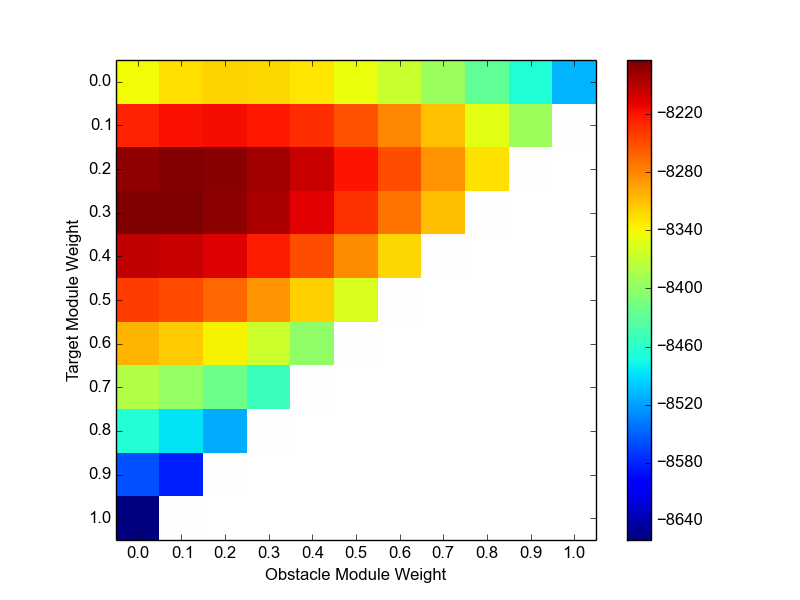
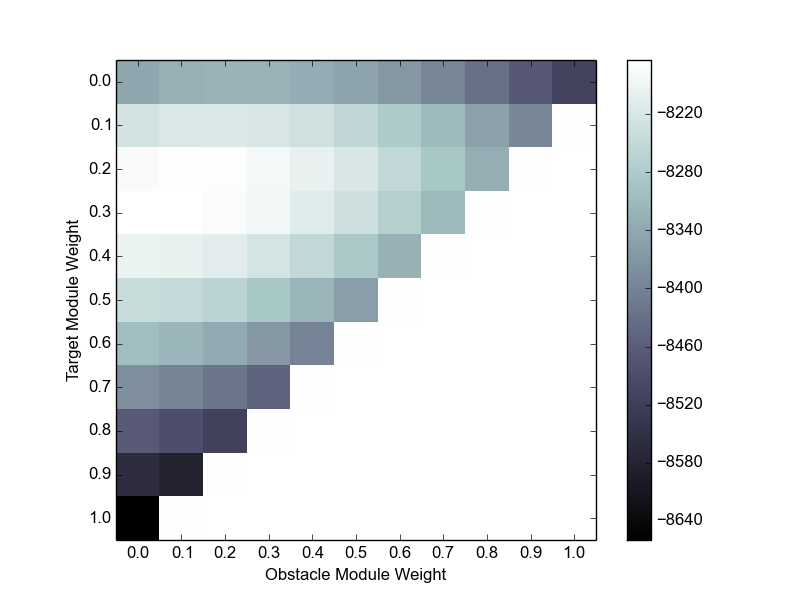
changed color for hm

Changed region(s): [[0.125, 0.09, 0.75, 0.9], [0.7812, 0.09, 0.8125, 0.9]]

diff --git a/inverseModularRL.py b/inverseModularRL.py
@@ -232,13 +232,12 @@ def debugWeight(sln, filename):
   mask = np.fliplr(mask)
   data = np.ma.array(data, mask=mask)
 
-  plt.imshow(data, interpolation='none')
+  plt.imshow(data, cmap='bone', interpolation='none')
   plt.xticks(range(11), np.arange(0,1.1,0.1))
   plt.yticks(range(11), np.arange(0,1.1,0.1))
   plt.xlabel('Obstacle Module Weight');
   plt.ylabel('Target Module Weight');
 
-  plt.jet()
   plt.colorbar()
 
   plt.savefig(filename)
